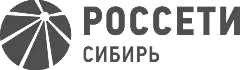
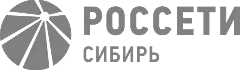
Логотипы партнёров: серые версии без CSS-фильтра, цветной слой всегда сверху

diff --git a/css/style.css b/css/style.css
@@ -252,15 +252,17 @@ button { cursor: pointer; }
 .marquee:focus-within .marquee__track { animation-play-state: paused; }
 .partner {
   --k: 1;
+  position: relative; isolation: isolate;
   display: grid; place-items: center; flex: none; width: 280px; height: 85px; margin-right: 32px;
 }
-/* обе версии одного размера (--w × --h — размер серой), на узких экранах уменьшаются пропорционально */
+/* обе версии одного размера (--w × --h — размер серой), на узких экранах уменьшаются пропорционально.
+   Серый вид «запечён» в файлы (без filter/opacity) — иначе при переходе браузер мог класть серый слой поверх цветного */
 .partner__img {
-  grid-area: 1 / 1; width: calc(var(--w) * var(--k) * 1px); height: calc(var(--h) * var(--k) * 1px); object-fit: contain;
-  filter: grayscale(1) brightness(1.1); opacity: .75; transition: opacity .6s ease-in-out;
+  grid-area: 1 / 1; position: relative; z-index: 0;
+  width: calc(var(--w) * var(--k) * 1px); height: calc(var(--h) * var(--k) * 1px); object-fit: contain;
 }
-/* цветная версия поверх серой; включается скриптом и держится, пока курсор на ленте */
-.partner__img--color { filter: none; opacity: 0; }
+/* цветная версия всегда сверху, в своём слое; включается скриптом и держится, пока курсор на ленте */
+.partner__img--color { z-index: 1; opacity: 0; transition: opacity .6s ease-in-out; will-change: opacity; }
 .partner.is-active .partner__img--color { opacity: 1; }
 @keyframes marquee { to { transform: translateX(-50%); } }
 .marquee { padding-left: max(var(--gutter), (100% - var(--container)) / 2); }

diff --git a/index.html b/index.html
@@ -9,7 +9,7 @@
   <link rel="preconnect" href="https://fonts.googleapis.com">
   <link rel="preconnect" href="https://fonts.gstatic.com" crossorigin>
   <link href="https://fonts.googleapis.com/css2?family=Golos+Text:wght@400;500;600;700&display=swap" rel="stylesheet">
-  <link rel="stylesheet" href="css/style.css?v=16">
+  <link rel="stylesheet" href="css/style.css?v=17">
 </head>
 <body>
 
@@ -385,6 +385,6 @@
   </div>
 </footer>
 
-<script src="js/main.js?v=16"></script>
+<script src="js/main.js?v=17"></script>
 </body>
 </html>
